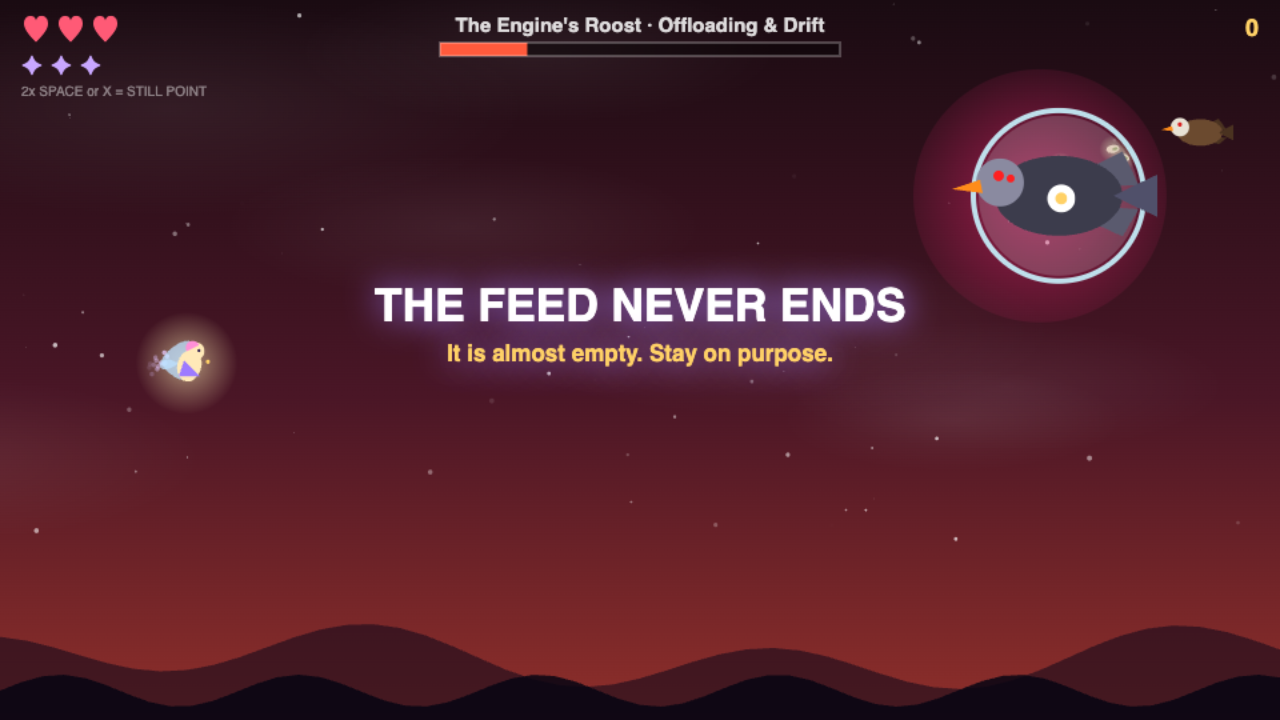
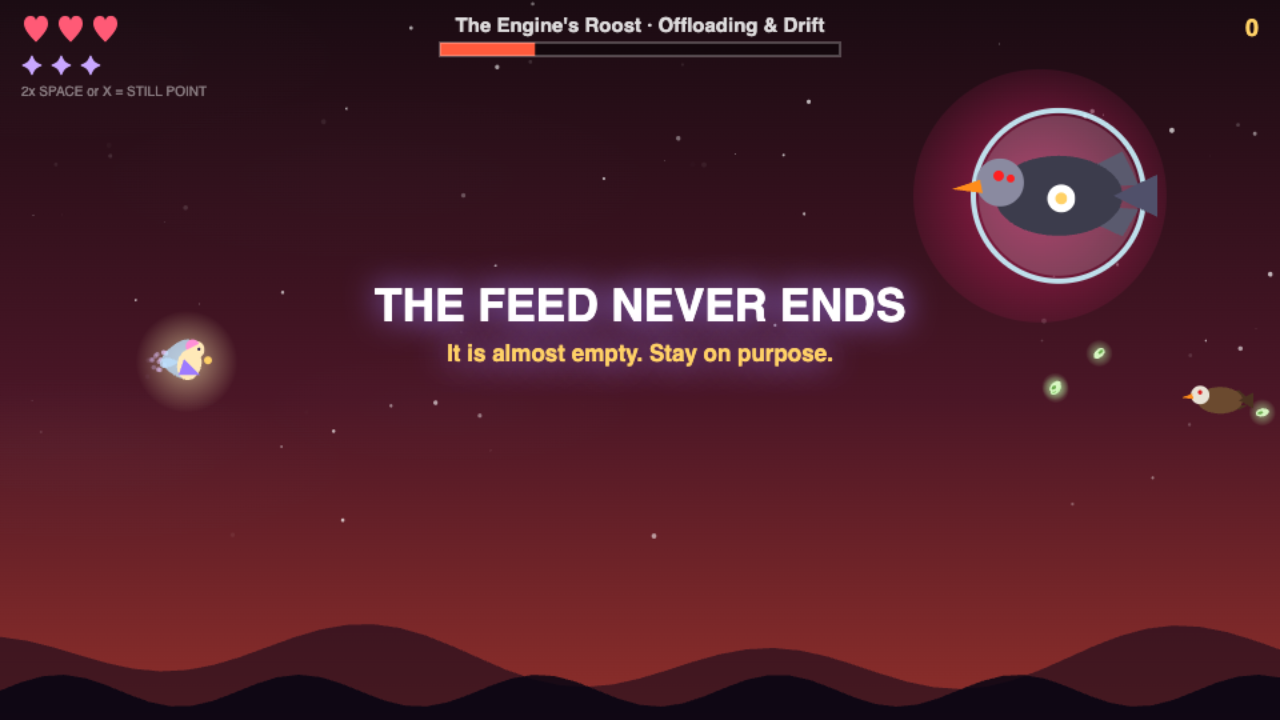
Slower pace, longer levels, more serpents, fake drift serpents, and lesson cards that must be read
Everything moves at 80% of its old pace and Lumen is a touch slower too.
Quotas rise to 12, 16, 20 and 18 so each level lasts longer. Serpents now
appear from level 2, and levels 4 and 5 add the fake serpent: faded, eyeless,
untouchable by sparks, never a heart, but a shove off your line, which is
cognitive drift in serpent form. The final level brings every enemy at once
with a sturdier Engine (80 health).

Lesson cards carry a light that runs around the frame while an eight-second
reading time counts down in the hint; they cannot be skipped before it ends,
and the frame holds gold when the quick check opens. Reduced motion shows a
static ring.

Test stub gained classList, appendChild, a hint slot and createElement; the
drift scenario keeps flattery out of the way; quota expectations updated.

diff --git a/index.html b/index.html
@@ -73,6 +73,17 @@
   body.big-text #card h2{font-size:30px;}
   body.big-text #card .tag, body.big-text #card .muted, body.big-text #card .hint, body.big-text #card .set .why{font-size:15px;}
   body.calm-motion #card .hint{animation:none;opacity:.9;}
+  /* lesson cards: a light runs around the frame while the reading time counts down, then holds gold */
+  @property --neon { syntax:'<angle>'; inherits:false; initial-value:0deg; }
+  #card.lesson{position:relative;}
+  #card.lesson .neon{position:absolute;inset:0;border-radius:18px;padding:3px;pointer-events:none;
+    background:conic-gradient(from var(--neon),transparent 0 58%,#9d7bff 72%,#ffd166 84%,#ff8fd8 92%,transparent 100%);
+    -webkit-mask:linear-gradient(#000 0 0) content-box,linear-gradient(#000 0 0);-webkit-mask-composite:xor;mask-composite:exclude;
+    animation:neon-spin 2.6s linear infinite;filter:drop-shadow(0 0 6px rgba(157,123,255,.8));}
+  #card.lesson.ready .neon{animation:none;background:conic-gradient(#ffd166,#ff8fd8,#9d7bff,#ffd166);opacity:.85;}
+  @keyframes neon-spin{to{--neon:360deg;}}
+  body.calm-motion #card.lesson .neon{animation:none;background:conic-gradient(#9d7bff,#ffd166,#ff8fd8,#9d7bff);opacity:.6;}
+  #card .hint.wait{color:var(--dim);animation:none;opacity:.9;}
   body.high-contrast{--ink:#ffffff;--dim:#e6e0ff;--accent:#ffe14d;--card-bg:#07051a;}
   body.high-contrast #card{border:2px solid #ffffff;}
   body.high-contrast #card button{border-width:2px;border-color:#cfc4ff;}
@@ -429,15 +440,15 @@ const QUIZ = [
 ];
 
 const LEVELS = [
-  { name:"Token Thicket", concept:"Tokens", ability:"calm", quota:8,  spawnEvery:1.7, types:["glider"],                    speed:70,  fireMin:2.4, fireMax:3.6, fireSpeed:170,
+  { name:"Token Thicket", concept:"Tokens", ability:"calm", quota:12, spawnEvery:1.7, types:["glider"],                    speed:70,  fireMin:2.4, fireMax:3.6, fireSpeed:170,
     sky:["#141034","#3b2a6d","#8a4f8f"] },
-  { name:"Pattern Canopy", concept:"Neural Networks", ability:"calm", hook:2, quota:12, spawnEvery:1.4, types:["glider","zigzag","armored"],  speed:88,  fireMin:2.0, fireMax:3.2, fireSpeed:190,
+  { name:"Pattern Canopy", concept:"Neural Networks", ability:"calm", hook:2, serpent:1, quota:16, spawnEvery:1.4, types:["glider","zigzag","armored"],  speed:88,  fireMin:2.0, fireMax:3.2, fireSpeed:190,
     sky:["#0e1c3a","#274b7a","#5a8fae"] },
-  { name:"Retention Ridge", concept:"Retention Models", ability:"still", hook:1, serpent:2, shots:"praise", quota:16, spawnEvery:1.15, types:["glider","zigzag","diver","swooper","armored"], speed:104, fireMin:1.7, fireMax:2.8, fireSpeed:210,
+  { name:"Retention Ridge", concept:"Retention Models", ability:"still", hook:1, serpent:3, shots:"praise", quota:20, spawnEvery:1.15, types:["glider","zigzag","diver","swooper","armored"], speed:104, fireMin:1.7, fireMax:2.8, fireSpeed:210,
     sky:["#2a1233","#6b2d5e","#c65f52"] },
-  { name:"Mirage Marsh", concept:"Hallucination", ability:"still", hook:1, serpent:1, orbs:true, quota:14, spawnEvery:1.3, types:["glider","zigzag","swooper","armored"], speed:98, fireMin:1.9, fireMax:3.0, fireSpeed:200,
+  { name:"Mirage Marsh", concept:"Hallucination", ability:"still", hook:1, serpent:2, phantom:1, orbs:true, quota:18, spawnEvery:1.3, types:["glider","zigzag","swooper","armored"], speed:98, fireMin:1.9, fireMax:3.0, fireSpeed:200,
     sky:["#0c2326","#2c5a57","#a4ae78"] },
-  { name:"The Engine's Roost", concept:"Offloading & Drift", ability:"still", drift:true, boss:true, spawnEvery:5, types:["glider","zigzag"], speed:95, fireMin:2.2, fireMax:3.2, fireSpeed:200,
+  { name:"The Engine's Roost", concept:"Offloading & Drift", ability:"still", hook:1, serpent:2, phantom:2, shots:"praise", drift:true, boss:true, spawnEvery:3.6, types:["glider","zigzag","diver","swooper","armored"], speed:95, fireMin:2.2, fireMax:3.2, fireSpeed:200,
     sky:["#1a0b12","#4a1626","#8f2f2a"] }
 ];
 
@@ -527,6 +538,8 @@ let calmT = 0, stillT = 0;
    cannot burn you, but touching one shoves you off your line, which is what drift does to attention. */
 const PRAISE_MORPH = 0.4, PRAISE_TURN = 1.5, PRAISE_LIFE = 4.2, PRAISE_SPEED = 0.8;
 const DECOY_SPLIT = 0.45, DECOY_COUNT = 3, DECOY_LIFE = 3.4, DRIFT_PUSH = 230, DRIFT_TIME = 0.9;
+/* Global pace. Enemy speeds, shot speeds and spawn rate all scale by this; the player is a little slower too. */
+const PACE = 0.8;
 let driftVx = 0, driftVy = 0, driftT = 0, praiseTurn = 0;
 /* Hallucination (level 4): answer orbs drift through the marsh. Real insight carries a ✓ source badge, a calm
    look and a checkable claim; a hallucination is shinier and more certain, with no source. Real ones refill a
@@ -547,13 +560,17 @@ let glimmer = null, glimT = 0, glimCount = 0;
 /* The Hook: a homing shadow that follows Lumen. Slower than she is in a straight line but it turns well, so the
    player can outfly it or turn and face it (two sparks). If it fails to catch her for HOOK_LIFE it gives up, and
    outflying it pays. It lives in the eagles list so bursts, stillness, sparks and the aimbot all treat it as one. */
-const HOOK_SPEED = 215, HOOK_TURN = 2.6, HOOK_LIFE = 7.5, HOOK_HP = 2, HOOK_ESCAPE_POINTS = 120;
+const HOOK_SPEED = 185, HOOK_TURN = 2.6, HOOK_LIFE = 7.5, HOOK_HP = 2, HOOK_ESCAPE_POINTS = 120;
 let hookT = 0, hookCount = 0;
 /* The Serpent: a snake that follows Lumen with a slow, swaying turn and a trailing body. Three sparks to the head
    bring it down, but the elegant answer is to lead it in a tight circle until its head crosses its own tail: then it
    swallows itself. A loop that feeds on its own output is the picture the game wants for feeds and drift. */
-const SERP_SPEED = 185, SERP_TURN = 4.5, SERP_SEGS = 7, SERP_GAP = 6, SERP_ARM = 1.4, SERP_HP = 7, SERP_BITE_FROM = 4, SERP_COILS = 3, SERP_COIL_GAP = 1.1, SERP_COIL_FADE = 4.0, SERP_BITE_POINTS = 200;
+const SERP_SPEED = 160, SERP_TURN = 4.5, SERP_SEGS = 7, SERP_GAP = 6, SERP_ARM = 1.4, SERP_HP = 7, SERP_BITE_FROM = 4, SERP_COILS = 3, SERP_COIL_GAP = 1.1, SERP_COIL_FADE = 4.0, SERP_BITE_POINTS = 200;
 let serpT = 0, serpentCount = 0;
+/* The fake serpent (levels 4 and 5): a drift decoy in serpent form. Faded, no bright eyes, no bite, and sparks pass
+   straight through it. Touching it shoves Lumen off her line, the same pull the decoy fires make. Let it pass. */
+const PHANTOM_LIFE = 11;
+let phantT = 0, phantomCount = 0;
 /* Arc sparks: every fifth spark while holding fire fans two extra sparks out. */
 const ARC_EVERY = 5, ARC_SPREAD = 0.26;
 let sparkStreak = 0;
@@ -636,7 +653,11 @@ function buildCard(c){
 function renderCard(c){
   currentCard = c; cardSerial++;
   cardEl.innerHTML = buildCard(c);
+  cardEl.classList.toggle("lesson", c.lesson != null);
+  cardEl.classList.remove("ready");
+  if (c.lesson != null){ const n = document.createElement("div"); n.className = "neon"; cardEl.appendChild(n); }
   cardShownAt = performance.now();
+  tickLessonHint();
   if (c.type === "initials"){
     const inp = cardEl.querySelector("input");
     if (inp){
@@ -680,9 +701,26 @@ function leaveCurrentCard(){
   const c = currentCard;
   if (c && c.lesson != null) api.track("lesson_view", c.lesson + 1, Math.min(600000, Math.round(performance.now() - cardShownAt)));
 }
+/* Lesson cards cannot be skipped until LESSON_MIN_MS have passed. The hint counts the seconds down and the
+   frame ring holds gold once reading time is up, so the wait reads as part of the card, not as a broken button. */
+const LESSON_MIN_MS = 8000;
+let lastHintSec = -1;
+function tickLessonHint(){
+  const c = currentCard;
+  if (!overlayOpen || !c || c.lesson == null) return;
+  const left = Math.ceil((LESSON_MIN_MS - (performance.now() - cardShownAt)) / 1000);
+  const hint = cardEl.querySelector(".hint");
+  if (!hint) return;
+  if (left > 0){
+    if (left !== lastHintSec){ hint.textContent = "Take your time. The quick check opens in " + left + "s"; hint.classList.add("wait"); lastHintSec = left; }
+  } else if (lastHintSec !== 0){
+    hint.textContent = c.hint || "Press SPACE or tap for a quick check"; hint.classList.remove("wait"); cardEl.classList.add("ready"); lastHintSec = 0;
+  }
+}
 function advanceCard(force){
   if (!overlayOpen) return;
   if (performance.now() - cardShownAt < 400) return;   // guard against double-tap skipping
+  if (!force && currentCard && currentCard.lesson != null && performance.now() - cardShownAt < LESSON_MIN_MS) return;   // read first
   if (!force && currentCard && (currentCard.type === "quiz" || currentCard.type === "initials")) return;   // these need a choice
   sfx.card();
   leaveCurrentCard();
@@ -945,13 +983,13 @@ function beginLevel(i){
   player.x = 140; player.y = H/2; player.cool = 0;
   inv = 1.2; spawnT = 1.0; calmT = 0; stillT = 0; tapT1 = tapT2 = ptT1 = ptT2 = -1e9;
   driftVx = driftVy = driftT = 0; introSeen = {}; introQueue = []; orbs = []; orbT = 1.6;
-  seeds = []; seedT = 1.2; seedStreak = 0; glimmer = null; glimT = rand(9, 14); glimCount = 0; hookT = rand(7, 11); hookCount = 0; serpT = rand(6, 9); serpentCount = 0; sparkStreak = 0;
+  seeds = []; seedT = 1.2; seedStreak = 0; glimmer = null; glimT = rand(9, 14); glimCount = 0; hookT = rand(7, 11); hookCount = 0; serpT = rand(6, 9); serpentCount = 0; phantT = rand(7, 11); phantomCount = 0; sparkStreak = 0;
   levelStartScore = score;
   hitBlink = false;
   levelStartAt = performance.now();
   api.track("level_start", i + 1); api.flush();
   if (i > progress.furthest){ progress.furthest = i; saveProgress(); }
-  const bossHp = Math.round(55 * DIFF.bossHp);
+  const bossHp = Math.round(80 * DIFF.bossHp);   // the final level brings every enemy at once, and the Engine itself is sturdier
   boss = cfg.boss ? { x:W+140, y:H/2, r:52, hp:bossHp, maxhp:bossHp, t:0, fireT:2.4, volley:0, entered:false, hurt:0, enraged:false, phase:1, spin:0, open:false, openT:0 } : null;
   const abIntro = abilityOf(i) === "still"
     ? "Still Point (X): the sky freezes, nothing dies"
@@ -1139,6 +1177,7 @@ function tryBurst(){
   kick(6, 1);
   fires = [];
   for (const e of eagles){
+    if (e.type === "phantom"){ burstParticles(e.x, e.y, "#7f9a90", 8); continue; }   // a fake was never an eagle
     award(e.pts);
     burstParticles(e.x, e.y, "#ffd166", 14);
     killCount++;
@@ -1156,7 +1195,7 @@ function spawnEagle(){
   const e = {
     type, x: W + 50, y: rand(60, H - 90), r: 20,
     baseY: 0, t: rand(0, 6.28),
-    vx: -(cfg.speed * rand(0.85, 1.2)),
+    vx: -(cfg.speed * PACE * rand(0.85, 1.2)),
     fireT: rand(cfg.fireMin, cfg.fireMax) * DIFF.fireGap,
     glow: 0, flap: rand(0, 6.28),
     pts: type === "armored" ? 200 : type === "swooper" ? 160 : type === "diver" ? 150 : (type === "zigzag" ? 120 : 100),
@@ -1178,6 +1217,14 @@ function spawnSerpent(){
   introOnce("serpent", "THE SERPENT", "It follows your every move. Lead it in a circle and it bites its own tail.");
 }
 /* the serpent's head crossed its own tail: it swallows itself, and that counts as turning it back */
+function spawnPhantom(){
+  const e = { type:"phantom", x: W + 50, y: clamp(player.y + rand(-140, 140), 70, H - 90), r: 16, baseY: 0, t: 0,
+    vx: -SERP_SPEED * 0.85 * DIFF.shotSpeed, vy: 0, fireT: 1e9, glow: 0, flap: rand(0, 6.28), pts: 0, hp: 1e9, hurt: 0,
+    hist: [], armT: 1e9, coils: 0, coilT: 0, coilAge: 0, life: PHANTOM_LIFE, sway: rand(0, 6.28) };
+  e.baseY = e.y;
+  eagles.push(e); phantomCount++;
+  introOnce("phantom", "A FAKE SERPENT", "No bright eyes, no bite. It only pulls your line off course. Let it pass.");
+}
 function serpentBite(i, e){
   award(SERP_BITE_POINTS); killCount++;
   pop(e.x, e.y - 20, "bit its own tail +" + Math.round(SERP_BITE_POINTS * DIFF.score), "#8ef0b0");
@@ -1209,7 +1256,7 @@ function eagleFire(e){
   const cfg = LEVELS[level];
   const dx = player.x - e.x, dy = player.y - e.y;
   const d = Math.hypot(dx, dy) || 1;
-  const sp = cfg.fireSpeed * DIFF.shotSpeed;
+  const sp = cfg.fireSpeed * PACE * DIFF.shotSpeed;
   const shot = { x:e.x - 16, y:e.y + 4, vx:dx/d*sp, vy:dy/d*sp, r:8, t:0, kind:"fire" };
   if (cfg.shots === "praise") shot.morph = PRAISE_MORPH;
   fires.push(shot);
@@ -1285,7 +1332,7 @@ function update(dt){
   const stilled = stillT > 0;
   /* player */
   if (!Number.isFinite(player.x) || !Number.isFinite(player.y)){ player.x = 140; player.y = H/2; }
-  const sp = 275;
+  const sp = 250;
   let dx = 0, dy = 0;
   if (keys["ArrowLeft"] || keys["a"]) dx -= 1;
   if (keys["ArrowRight"] || keys["d"]) dx += 1;
@@ -1323,21 +1370,27 @@ function update(dt){
   }
 
   /* spawning */
-  const wantMore = boss ? eagles.length < (boss.phase === 3 ? 4 : 3) && boss.entered : (killCount + eagles.length < quota + 3);
+  const regular = eagles.filter(e => e.type !== "hook" && e.type !== "serpent" && e.type !== "phantom").length;
+  const wantMore = boss ? regular < (boss.phase === 3 ? 4 : 3) && boss.entered : (killCount + regular < quota + 3);
   if (!stilled) spawnT -= dt;
   if (spawnT <= 0 && !stilled && calmT <= 0 && wantMore && (!boss || boss.entered)){
     spawnEagle();
-    spawnT = cfg.spawnEvery * DIFF.spawnGap * rand(0.7, 1.25);
+    spawnT = cfg.spawnEvery / PACE * DIFF.spawnGap * rand(0.7, 1.25);
   }
   /* the hook: one at a time, only on the levels that carry it */
-  if (cfg.hook && !stilled && calmT <= 0 && hookCount < cfg.hook && !eagles.some(e => e.type === "hook")){
+  if (cfg.hook && !stilled && calmT <= 0 && hookCount < cfg.hook && !eagles.some(e => e.type === "hook") && (!boss || boss.entered)){
     hookT -= dt;
     if (hookT <= 0){ spawnHook(); hookT = rand(9, 14); }
   }
   /* the serpent: one at a time, only on the levels that carry it */
-  if (cfg.serpent && !stilled && calmT <= 0 && serpentCount < cfg.serpent && !eagles.some(e => e.type === "serpent")){
+  if (cfg.serpent && !stilled && calmT <= 0 && serpentCount < cfg.serpent && !eagles.some(e => e.type === "serpent") && (!boss || boss.entered)){
     serpT -= dt;
     if (serpT <= 0){ spawnSerpent(); serpT = rand(8, 12); }
+  }
+  /* the fake serpent: one at a time, on the drift levels */
+  if (cfg.phantom && !stilled && calmT <= 0 && phantomCount < cfg.phantom && !eagles.some(e => e.type === "phantom") && (!boss || boss.entered)){
+    phantT -= dt;
+    if (phantT <= 0){ spawnPhantom(); phantT = rand(9, 13); }
   }
 
   /* eagles */
@@ -1350,15 +1403,20 @@ function update(dt){
       else if (e.type === "zigzag") e.y = e.baseY + Math.sin(e.t*3.4)*70;
       else if (e.type === "diver") e.y += clamp(player.y - e.y, -95, 95)*dt;
       else if (e.type === "armored") e.y = e.baseY + Math.sin(e.t*1.1)*16;
-      else if (e.type === "serpent"){
+      else if (e.type === "serpent" || e.type === "phantom"){
         /* a swaying chase with a slow turn, so a tight circle brings the head across the tail */
-        const want = Math.atan2(player.y - e.y, player.x - e.x) + Math.sin(tGlobal*3 + e.x*0.01)*0.25;
-        const sp = SERP_SPEED * DIFF.shotSpeed;
+        const fake = e.type === "phantom";
+        const want = Math.atan2(player.y - e.y, player.x - e.x) + Math.sin(tGlobal*3 + e.x*0.01)*(fake ? 0.6 : 0.25);
+        const sp = SERP_SPEED * (fake ? 0.85 : 1) * DIFF.shotSpeed;
         const k = 1 - Math.exp(-dt * SERP_TURN * DIFF.turn);
         e.vx += (Math.cos(want)*sp - e.vx)*k; e.vy += (Math.sin(want)*sp - e.vy)*k;
         e.y += e.vy*dt;
         e.x = clamp(e.x, 30, W + 60);
         e.hist.unshift({ x:e.x, y:e.y }); if (e.hist.length > SERP_SEGS*SERP_GAP + 4) e.hist.pop();
+        if (fake){
+          e.life -= dt;
+          if (e.life <= 0){ burstParticles(e.x, e.y, "#7f9a90", 10); eagles.splice(i,1); continue; }
+        }
         e.armT -= dt; e.coilT -= dt;
         if (e.coils > 0){ e.coilAge += dt; if (e.coilAge > SERP_COIL_FADE){ e.coils = 0; e.coilAge = 0; } }   // coils unwind if the player stops
         if (e.armT <= 0 && e.coilT <= 0){
@@ -1417,6 +1475,15 @@ function update(dt){
       if (e.x < -60){ e.x = W + 50; e.baseY = rand(60, H-90); e.y = e.baseY; }
     }
     /* collide with player */
+    if (e.type === "phantom" && dist2(e.x,e.y,player.x,player.y) < (e.r+player.r)*(e.r+player.r)){
+      /* a fake serpent never costs a heart, it only moves you */
+      const d = Math.hypot(e.vx, e.vy) || 1;
+      driftVx = e.vx/d*DRIFT_PUSH; driftVy = e.vy/d*DRIFT_PUSH; driftT = DRIFT_TIME;
+      burstParticles(e.x, e.y, "#7f9a90", 14);
+      eagles.splice(i,1);
+      if (!banner) banner = { text:"", sub:"Drifting... that pull was not your choice.", t:0, max:1.2 };
+      continue;
+    }
     if (inv <= 0 && dist2(e.x,e.y,player.x,player.y) < (e.r+player.r-4)*(e.r+player.r-4)){
       eagles.splice(i,1); onPlayerHit(); if (state !== "play") return; continue;
     }
@@ -1459,7 +1526,7 @@ function update(dt){
         for (let k=0;k<14;k++){
           if (k === 0 || k === 1) continue;
           const a = boss.spin + k/14*Math.PI*2;
-          fires.push({ x:boss.x, y:boss.y, vx:Math.cos(a)*150*DIFF.shotSpeed, vy:Math.sin(a)*150*DIFF.shotSpeed, r:8, t:0, kind:"fire" });
+          fires.push({ x:boss.x, y:boss.y, vx:Math.cos(a)*150*PACE*DIFF.shotSpeed, vy:Math.sin(a)*150*PACE*DIFF.shotSpeed, r:8, t:0, kind:"fire" });
         }
         boss.fireT = rand(0.9, 1.2) * DIFF.fireGap;
       } else if (boss.fireT <= 0){
@@ -1468,11 +1535,11 @@ function update(dt){
         if (boss.volley % 4 === 0){
           for (let k=0;k<10;k++){
             const a = k/10*Math.PI*2;
-            fires.push({ x:boss.x, y:boss.y, vx:Math.cos(a)*135*DIFF.shotSpeed, vy:Math.sin(a)*135*DIFF.shotSpeed, r:8, t:0, kind:"fire" });
+            fires.push({ x:boss.x, y:boss.y, vx:Math.cos(a)*135*PACE*DIFF.shotSpeed, vy:Math.sin(a)*135*PACE*DIFF.shotSpeed, r:8, t:0, kind:"fire" });
           }
         } else {
           for (const off of [-0.24, 0, 0.24]){
-            const shot = { x:boss.x-30, y:boss.y, vx:Math.cos(base+off)*205*DIFF.shotSpeed, vy:Math.sin(base+off)*205*DIFF.shotSpeed, r:8, t:0, kind:"fire" };
+            const shot = { x:boss.x-30, y:boss.y, vx:Math.cos(base+off)*205*PACE*DIFF.shotSpeed, vy:Math.sin(base+off)*205*PACE*DIFF.shotSpeed, r:8, t:0, kind:"fire" };
             if (cfg.drift && off === 0) shot.split = DECOY_SPLIT;
             fires.push(shot);
           }
@@ -1555,6 +1622,7 @@ function update(dt){
     let hit = false;
     for (let j=eagles.length-1;j>=0;j--){
       const e = eagles[j];
+      if (e.type === "phantom") continue;   // sparks pass straight through a fake
       if (dist2(b.x,b.y,e.x,e.y) < (b.r+e.r)*(b.r+e.r)){
         if ((e.hp || 1) > 1){
           e.hp--; e.hurt = 0.2; sfx.clank();
@@ -1940,25 +2008,38 @@ function drawGlimmer(g){
 }
 function drawSerpent(e){
   ctx.save();
-  const armed = e.armT <= 0;
+  const fake = e.type === "phantom";
+  const armed = !fake && e.armT <= 0;
+  if (fake){
+    /* the tell: faded, and no bright eyes. A slow shimmer, about one cycle per second, never a fast flicker */
+    const sh = reducedMotion() ? 0.5 : 0.42 + 0.14*Math.sin(tGlobal*6.28 + e.sway);
+    ctx.globalAlpha = Math.min(1, e.life / 0.8) * sh;
+  }
   for (let k=SERP_SEGS-1;k>=0;k--){
     const q = e.hist[Math.min(e.hist.length - 1, (k + 1) * SERP_GAP)];
     if (!q) continue;
     const r = 5 + 6 * (1 - k/SERP_SEGS);
-    ctx.globalAlpha = 0.95 - k*0.08;
-    ctx.fillStyle = k % 2 ? "#2f7a5a" : "#3f9a6e";
+    if (!fake) ctx.globalAlpha = 0.95 - k*0.08;
+    ctx.fillStyle = fake ? (k % 2 ? "#4a5c58" : "#5c7470") : (k % 2 ? "#2f7a5a" : "#3f9a6e");
     ctx.beginPath(); ctx.arc(q.x, q.y, r, 0, 6.28); ctx.fill();
     if (highContrast()){ ctx.strokeStyle = "#ffffff"; ctx.lineWidth = 1; ctx.stroke(); }
     /* the part of the tail the head can bite is ringed once the serpent is armed */
     if (armed && k >= SERP_BITE_FROM){ ctx.strokeStyle = "rgba(255,209,102,0.6)"; ctx.lineWidth = 1.2; ctx.beginPath(); ctx.arc(q.x, q.y, r + 2, 0, 6.28); ctx.stroke(); }
   }
-  ctx.globalAlpha = 1;
+  if (!fake) ctx.globalAlpha = 1;
   /* coil progress: one gold dot per crossing so far */
   for (let c=0;c<e.coils;c++){ ctx.fillStyle = "#ffd166"; ctx.beginPath(); ctx.arc(e.x - 8 + c*8, e.y - 24, 3, 0, 6.28); ctx.fill(); }
   ctx.translate(e.x, e.y); ctx.rotate(Math.atan2(e.vy, e.vx));
-  ctx.fillStyle = e.hurt > 0 ? "#ffffff" : "#4fbf86";
+  ctx.fillStyle = fake ? "#6f8a84" : e.hurt > 0 ? "#ffffff" : "#4fbf86";
   ctx.beginPath(); ctx.moveTo(16,0); ctx.quadraticCurveTo(6,-11,-10,-8); ctx.lineTo(-10,8); ctx.quadraticCurveTo(6,11,16,0); ctx.closePath(); ctx.fill();
-  ctx.strokeStyle = highContrast() ? "#ffffff" : "#1f5a3c"; ctx.lineWidth = 1.5; ctx.stroke();
+  if (fake && (reducedMotion() || highContrast())){ ctx.setLineDash([4, 4]); ctx.strokeStyle = "#ffffff"; ctx.lineWidth = 2; ctx.stroke(); ctx.setLineDash([]); }
+  else { ctx.strokeStyle = highContrast() ? "#ffffff" : fake ? "#3a4a46" : "#1f5a3c"; ctx.lineWidth = 1.5; ctx.stroke(); }
+  if (fake){
+    /* empty sockets where the eyes would be: the missing bright centre is the tell */
+    ctx.fillStyle = "#2a3532";
+    ctx.beginPath(); ctx.arc(4,-4,2.2,0,6.28); ctx.fill(); ctx.beginPath(); ctx.arc(4,4,2.2,0,6.28); ctx.fill();
+    ctx.restore(); return;
+  }
   ctx.fillStyle = "#ffd166";
   ctx.beginPath(); ctx.arc(4,-4,2.2,0,6.28); ctx.fill(); ctx.beginPath(); ctx.arc(4,4,2.2,0,6.28); ctx.fill();
   ctx.fillStyle = "#1a1a1a";
@@ -2097,7 +2178,7 @@ function draw(){
   for (const m of motes) drawMote(m);
   for (const o of orbs) drawOrb(o);
   if (glimmer) drawGlimmer(glimmer);
-  for (const e of eagles) (e.type === "hook" ? drawHook(e) : e.type === "serpent" ? drawSerpent(e) : drawEagle(e));
+  for (const e of eagles) (e.type === "hook" ? drawHook(e) : (e.type === "serpent" || e.type === "phantom") ? drawSerpent(e) : drawEagle(e));
   if (boss) drawBoss();
   for (const f of fires) drawFire(f);
   /* bullets */
@@ -2153,6 +2234,7 @@ function frame(now){
   try {
     if (hitStop > 0){ hitStop = Math.max(0, hitStop - dt); draw(); }
     else { update(dt); draw(); }
+    if (overlayOpen) tickLessonHint();
   }
   catch(err){ console.error("Mindwing frame error:", err); }   // one bad frame must not freeze the game
   requestAnimationFrame(frame);

diff --git a/README.md b/README.md
@@ -31,7 +31,7 @@ The game remembers, in that browser only, the furthest level reached and the bes
 The game is built around the idea that a message lands best when it arrives at a moment the player is already paying attention.
 
 - **Start of the game**: a short story frame, the controls, and Lesson 1.
-- **Between levels**: one focused lesson card per concept, each ending in a practical "Field note" the player can use the same day.
+- **Between levels**: one focused lesson card per concept, each ending in a practical "Field note" the player can use the same day. A light runs around the card's frame while an eight-second reading time counts down, and the card cannot be skipped before it ends; the hint says so, and the frame holds gold when the quick check opens.
 - **Quick checks**: two multiple-choice questions right after each lesson (ten in total). A right answer earns +100 focus, a wrong one costs nothing and shows the correct answer with a one-line explanation, so the check teaches rather than punishes.
 - **When you get hit**: the game pauses on a one-sentence "spark of insight". A hit from flattery explains sycophancy ("Flattered!"), a hit while the fake fires are flying explains drift ("Distracted!"), and any other hit rotates through ten general facts. The first time flattery or fakes appear in a level, a short banner names the idea ("SYCOPHANCY", "COGNITIVE DRIFT"). Getting hit is the moment a player is most likely to actually read, and the short pause doubles as a breather.
 - **Game over**: an encouraging retry screen that repeats one insight, so even losing teaches something.
@@ -69,8 +69,9 @@ A few mechanics borrowed from Loopy, an earlier fish-fairy side-scroller, chosen
 - **Grove seeds**: tiny green seeds drift across the sky in small orbiting clusters. Fly through one to eat it (+10 focus). Every tenth seed pays a streak bonus, so there is a reason to use the whole sky and not only the firing line.
 - **The glimmer**: once or twice a level a golden glimmer shimmers in for about two seconds and then is gone. Catch it for +150 focus and a burst of seeds. It is a variable reward on purpose, and the first one is named on screen ("VARIABLE REWARD") so the pattern is easier to spot in an app.
 - **The hook** (levels 2 to 4): a dark homing shape with one red notification eye follows Lumen. It is slower than she is in a straight line but turns well. Outfly it for about seven seconds and it gives up ("outflown", +120); or turn and face it, since two sparks bring it down. Either answer is a choice, which is the point.
-- **The serpent** (levels 3 and 4): a green snake with a trailing body follows Lumen with a slow, swaying turn. Seven sparks to the head bring it down, but the elegant answer is to lead it in a tight circle so its head crosses its own tail (the biteable part is ringed in gold once it is armed). Each crossing is a coil, shown as a gold dot and a "coiling 1/3" pop, and coils unwind if you stop; on the third it swallows itself for +200 and the line "Loops feed on themselves." A skilled circle takes four to five seconds.
+- **The serpent** (levels 2 to 5): a green snake with a trailing body follows Lumen with a slow, swaying turn. Seven sparks to the head bring it down, but the elegant answer is to lead it in a tight circle so its head crosses its own tail (the biteable part is ringed in gold once it is armed). Each crossing is a coil, shown as a gold dot and a "coiling 1/3" pop, and coils unwind if you stop; on the third it swallows itself for +200 and the line "Loops feed on themselves." A skilled circle takes four to five seconds.
 - **Arc sparks**: while holding fire, every fifth spark fans two extra sparks out at an angle.
+- **The fake serpent** (levels 4 and 5): a faded serpent with empty eye sockets and no bite. Sparks pass straight through it and it never costs a heart, but touching it shoves Lumen off her line, the same pull the decoy fires make. It is cognitive drift in serpent form: the missing bright centre is the tell.
 - **The opening** (boss, final phase): every few seconds the Engine stops firing for a moment and glows white. Sparks land in full only then; the rest of the time they mostly glance off its plating. Aim for the pause. Spam is not the same as aim.
 
 ## Feel
@@ -78,6 +79,7 @@ A few mechanics borrowed from Loopy, an earlier fish-fairy side-scroller, chosen
 - **Music**: a small generative score made in the browser (no audio files): a pentatonic arpeggio over a slow bass, a different mood and tempo for each level, and a pulsing low line for the boss. It ducks under cards, goes quiet on pause, and can be switched off in Settings (M still mutes everything).
 - **Impact**: a few frames of hit-stop when an eagle falls, when you are hurt, and when the boss changes phase or falls; floating score pop-ups; tumbling feathers; red edges when you lose a heart.
 - **Eagles**: gliders, zigzaggers and divers are joined by **armored eagles** (levels 2 and 3: slower, plated, take two sparks, 200 points) and **swoopers** (level 3: cruise, then dive at where you are and climb away; the crest glows during the dive).
+- **The final level** brings every enemy at once: all five eagle types, flattery shots, the hook, serpents, fake serpents, and the decoy fires, with a sturdier Engine (80 health on normal, from 55). Quotas on the earlier levels are 12, 16, 20 and 18 eagles, so each level is a little longer. The whole game runs at 80% of its original pace.
 - **Boss phases**: at half health the Engine overclocks and fires faster; below a quarter it announces "THE FEED NEVER ENDS" and alternates spiral volleys (a turning ring with a gap to fly through) with its aimed shots, and calls in an extra eagle.
 
 ## Settings: difficulty and accessibility
@@ -128,7 +130,7 @@ No personal data is stored. IP addresses are only hashed with a daily salt for r
 ## Submission materials
 
 - [docs/SUBMISSION.md](docs/SUBMISSION.md): one-page overview for reviewers, with the concept-to-mechanic map, how learning is measured, a ten-minute evaluation path, accessibility, privacy, and background reading.
-- [docs/screenshots/](docs/screenshots/): fourteen 1280x720 captures covering the title, story, lesson, checks, every level, the hit card, the boss, and the teacher dashboard.
+- [docs/screenshots/](docs/screenshots/): fifteen 1280x720 captures covering the title, story, lesson, checks, every level, the hit card, the boss, the all-enemies finale, and the teacher dashboard.
 
 ## Testing
 

diff --git a/docs/SUBMISSION.md b/docs/SUBMISSION.md
@@ -9,7 +9,7 @@
 
 ## The idea in one paragraph
 
-Mindwing is a five-level arcade shooter for players aged roughly 11 and up. You are Lumen, a fairy guarding the Grove of Minds against the Engagement Engine, a machine that feeds on attention. Each level teaches one idea about modern language-model AI and its effect on the people who use it: tokens and next-token prediction, neural networks and distributed weights, retention design and sycophancy, hallucination, and cognitive offloading and drift. The design principle is that a message lands when it arrives at a moment the player is already paying attention, so the teaching is placed at those moments: a lesson before each level, a one-line insight when you are hit, a named banner the first time a new trick appears, and a field guide when you win. Wherever possible the mechanic is the lesson, not an illustration of it.
+Mindwing is a five-level arcade shooter for players aged roughly 11 and up. You are Lumen, a fairy guarding the Grove of Minds against the Engagement Engine, a machine that feeds on attention. Each level teaches one idea about modern language-model AI and its effect on the people who use it: tokens and next-token prediction, neural networks and distributed weights, retention design and sycophancy, hallucination, and cognitive offloading and drift. The design principle is that a message lands when it arrives at a moment the player is already paying attention, so the teaching is placed at those moments: a lesson before each level (with an eight-second reading time before it can be skipped, shown as a light running around the card), a one-line insight when you are hit, a named banner the first time a new trick appears, and a field guide when you win. Wherever possible the mechanic is the lesson, not an illustration of it.
 
 ## Where the mechanics carry the concepts
 
@@ -19,7 +19,7 @@ Mindwing is a five-level arcade shooter for players aged roughly 11 and up. You 
 | 2 Pattern Canopy | Neural networks, weights | Armoured eagles take two sparks: not everything yields to the first answer. |
 | 3 Retention Ridge | Retention design, sycophancy | Eagle flames turn into thumbs-up praise bubbles ("You're absolutely right!") that follow you. A homing "hook" trails you until you outfly it or turn and face it. The serpent, an enemy that only defeats itself when led to chase its own tail, is the picture of a loop feeding on its own output. |
 | 4 Mirage Marsh | Hallucination | Answer orbs drift through the marsh. Real insight carries a checkable source badge and refills a charge; the shinier, surer orbs ("100% certain!") are hallucinations that cost you. The tell is a shape, never a colour alone. |
-| 5 The Engine's Roost | Offloading and drift | The boss's fireballs split into faded decoys with no bright centre. They cannot burn you, but touching one shoves you off your line. In its final phase the Engine pauses to reload; only then do sparks land in full, so timing beats spamming. |
+| 5 The Engine's Roost | Offloading and drift | Every enemy from the earlier levels returns at once, plus fake serpents: faded, eyeless, harmless to sparks and hearts, but touching one shoves you off your line. The boss's fireballs split into faded decoys with the same pull. In its final phase the Engine pauses to reload; only then do sparks land in full, so timing beats spamming. |
 
 Two smaller devices run through all levels. A fleeting golden "glimmer" appears for two seconds and pays if caught; the first one is named on screen as a variable reward, so the pattern is easier to spot in an app. And the player's clarity move changes meaning halfway through: on levels 1 and 2 it clears the sky, on levels 3 to 5 it destroys nothing and instead freezes everything for a moment while you choose your own line, which is the retention and drift lesson played out in the controls.
 
